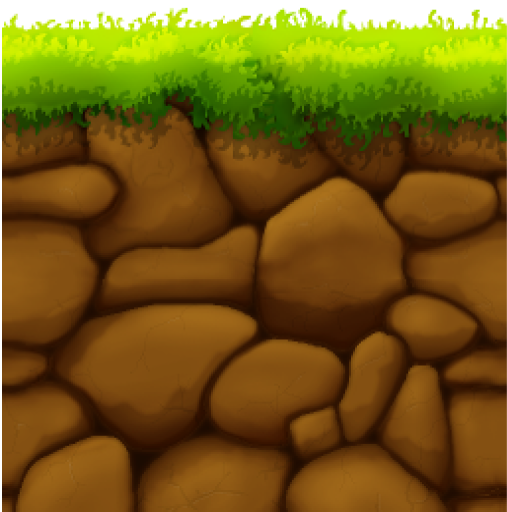
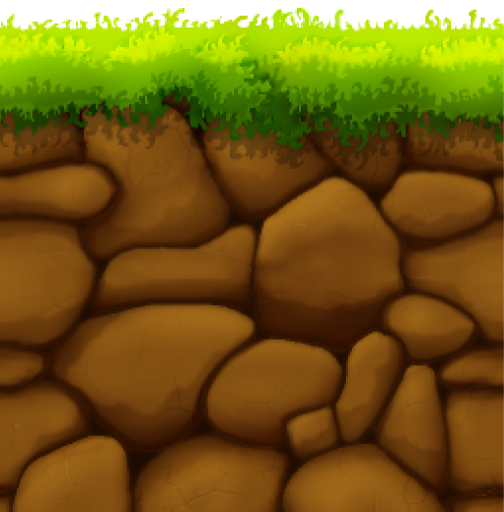
Restart the game when lives get to 0, fix the image position of the platform

diff --git a/src/components/PlayingField.tsx b/src/components/PlayingField.tsx
@@ -16,7 +16,7 @@ const PlayingField: FC = (props) => {
   const { setPlayerVerticalVelocity, playerPos, setPlayerPos, onGround } =
     usePhysicsController(playingField, () => console.log("fell off"));
 
-  const { fruits } = useFruitController(
+  const { fruits, setTouchedFruits } = useFruitController(
     playingField.fruits,
     playerPos,
     (points) => {
@@ -24,6 +24,13 @@ const PlayingField: FC = (props) => {
       console.log(currentPoints);
       if (currentPoints + points < 0 && points === -5) {
         setLives(currentLives - 1);
+      }
+      // Will tidy this up in a new function
+      if (currentLives - 1 <= 0){
+          setPoints(0);
+          setLives(3);
+          setPlayerPos(playingField.playerStart);
+          setTouchedFruits([]);
       }
       console.log(`Touched fruit worth ${points} points`);
     }

diff --git a/src/hooks/useFruitController.ts b/src/hooks/useFruitController.ts
@@ -6,6 +6,7 @@ import {
   PLAYER_HEIGHT,
   PLAYER_WIDTH,
 } from "./usePhysicsController";
+import lives from "../components/Lives";
 
 export default function useFruitController(
   fruits: PlayingFieldDefinition["fruits"],
@@ -31,5 +32,6 @@ export default function useFruitController(
 
   return {
     fruits: fruits.filter((_, index) => !touchedFruits.includes(index)),
+    setTouchedFruits,
   };
 }
